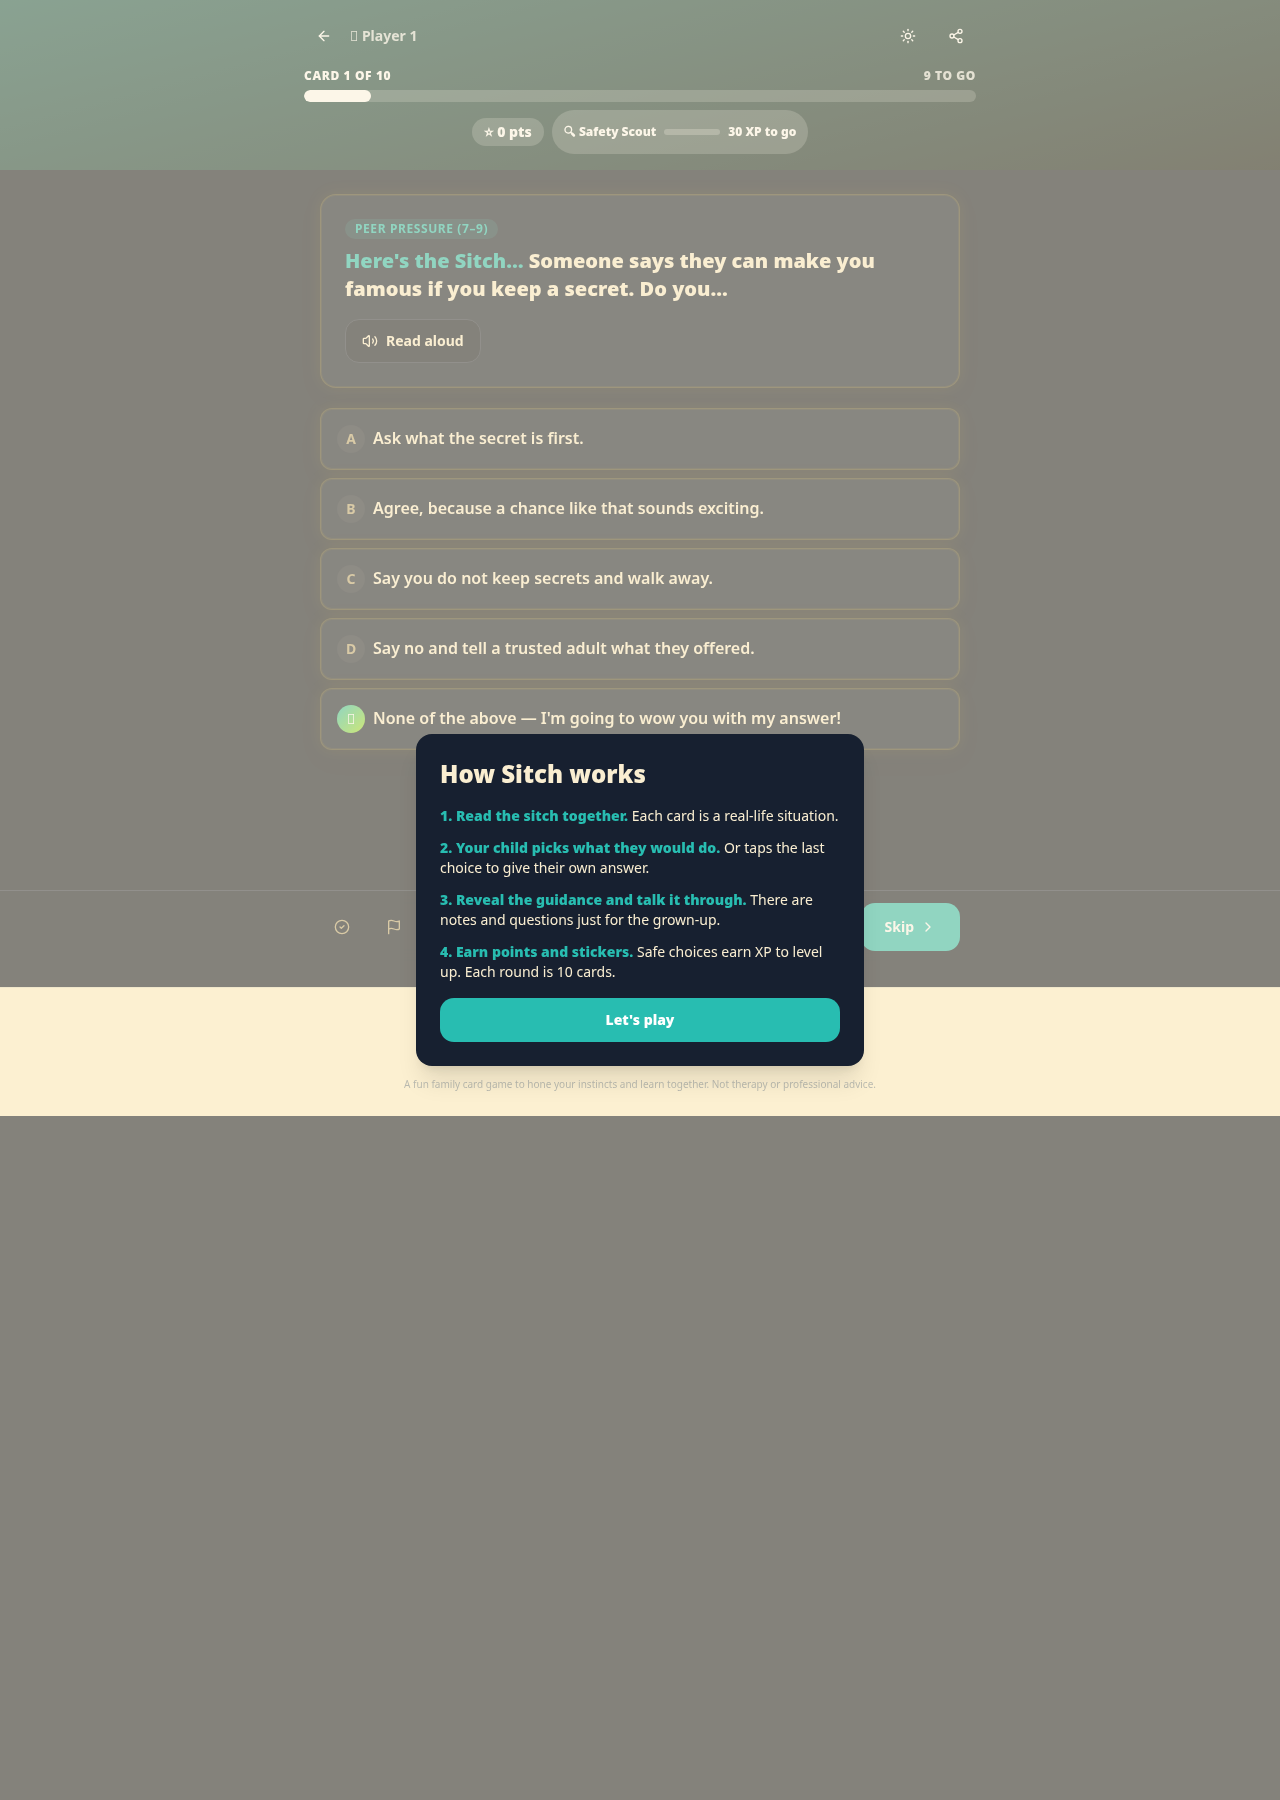
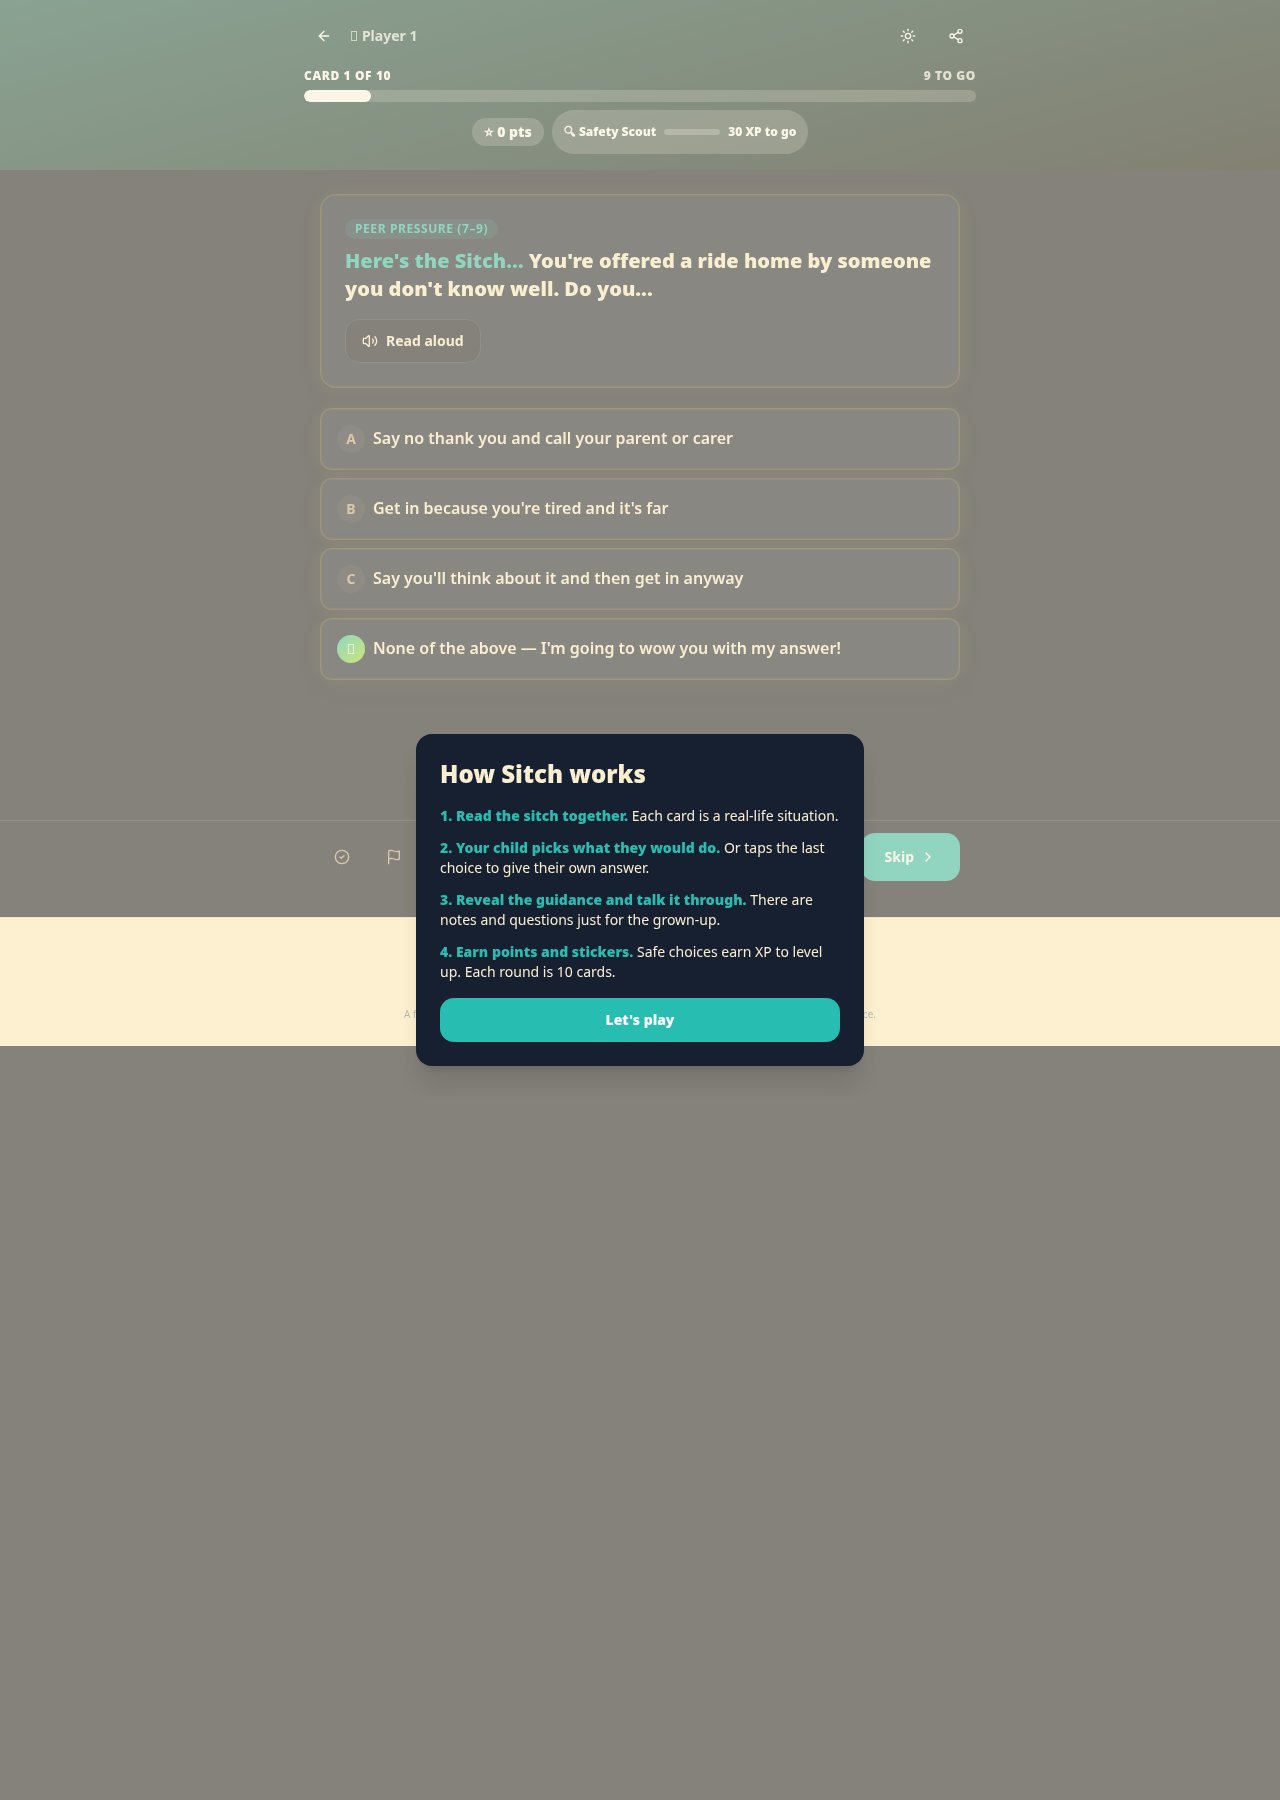
Changes

diff --git a/scripts/smoke-browser.py b/scripts/smoke-browser.py
@@ -107,6 +107,12 @@ async def run() -> list[str]:
             await start_fresh.first.click()
             await page.wait_for_timeout(1200)
 
+        # First-time "How Sitch works" intro overlays the card on fresh browsers.
+        intro_btn = page.get_by_role("button", name="Let's play")
+        if await intro_btn.count() and await intro_btn.first.is_visible():
+            await intro_btn.first.click()
+            await page.wait_for_timeout(600)
+
         await page.wait_for_timeout(1500)
         await page.screenshot(path=str(SHOTS / "3_first_card.png"))
 
